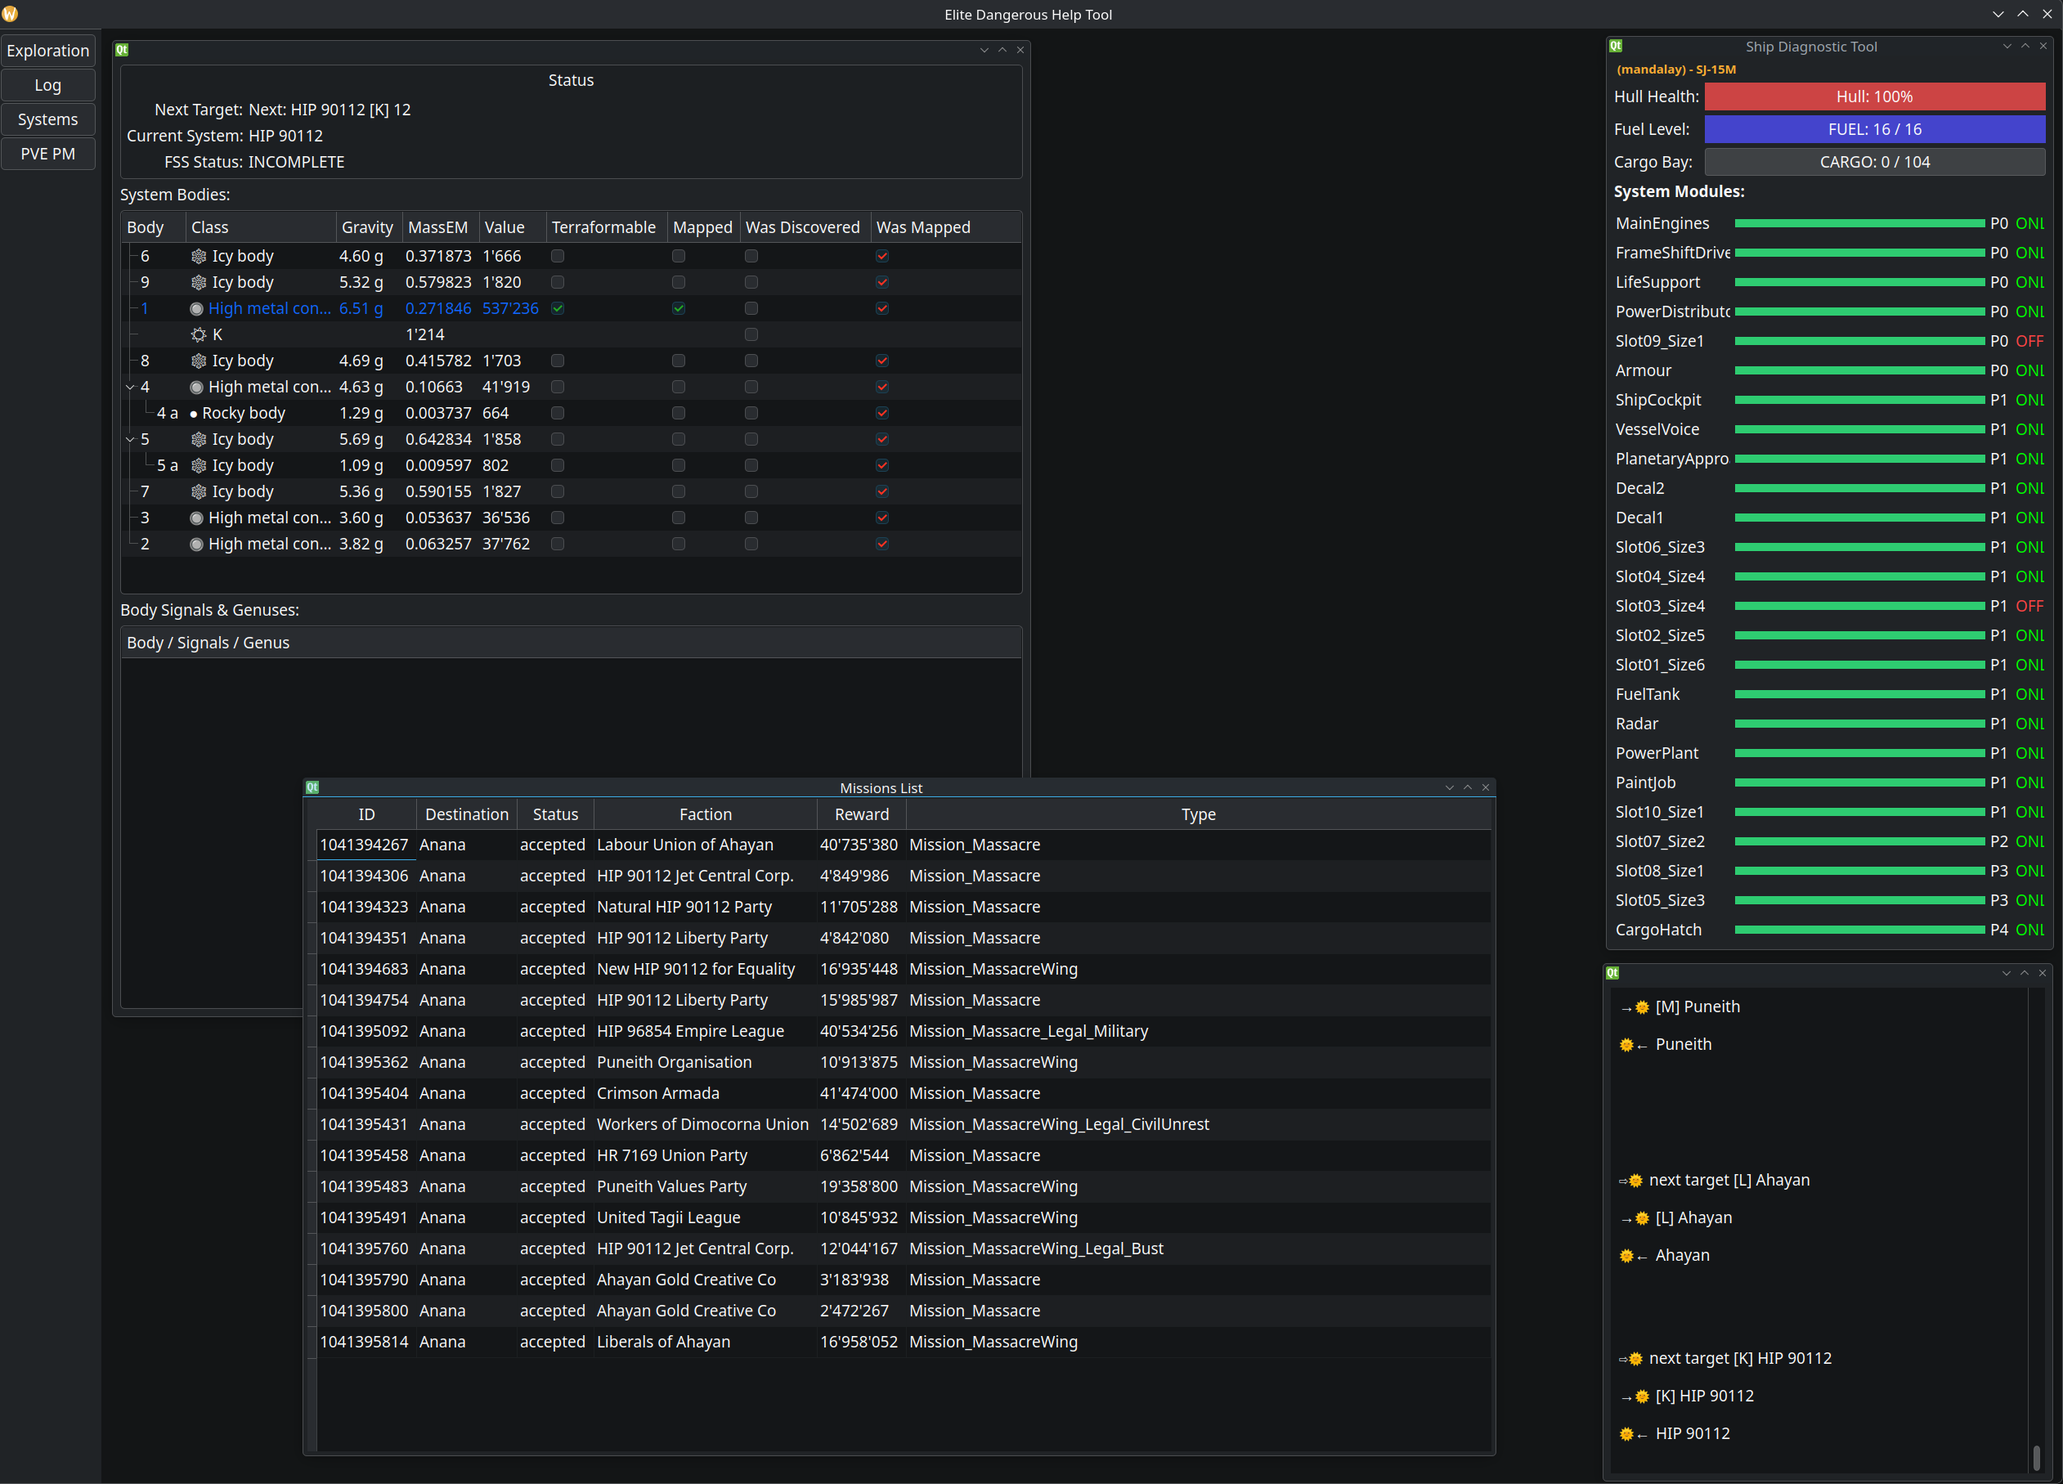
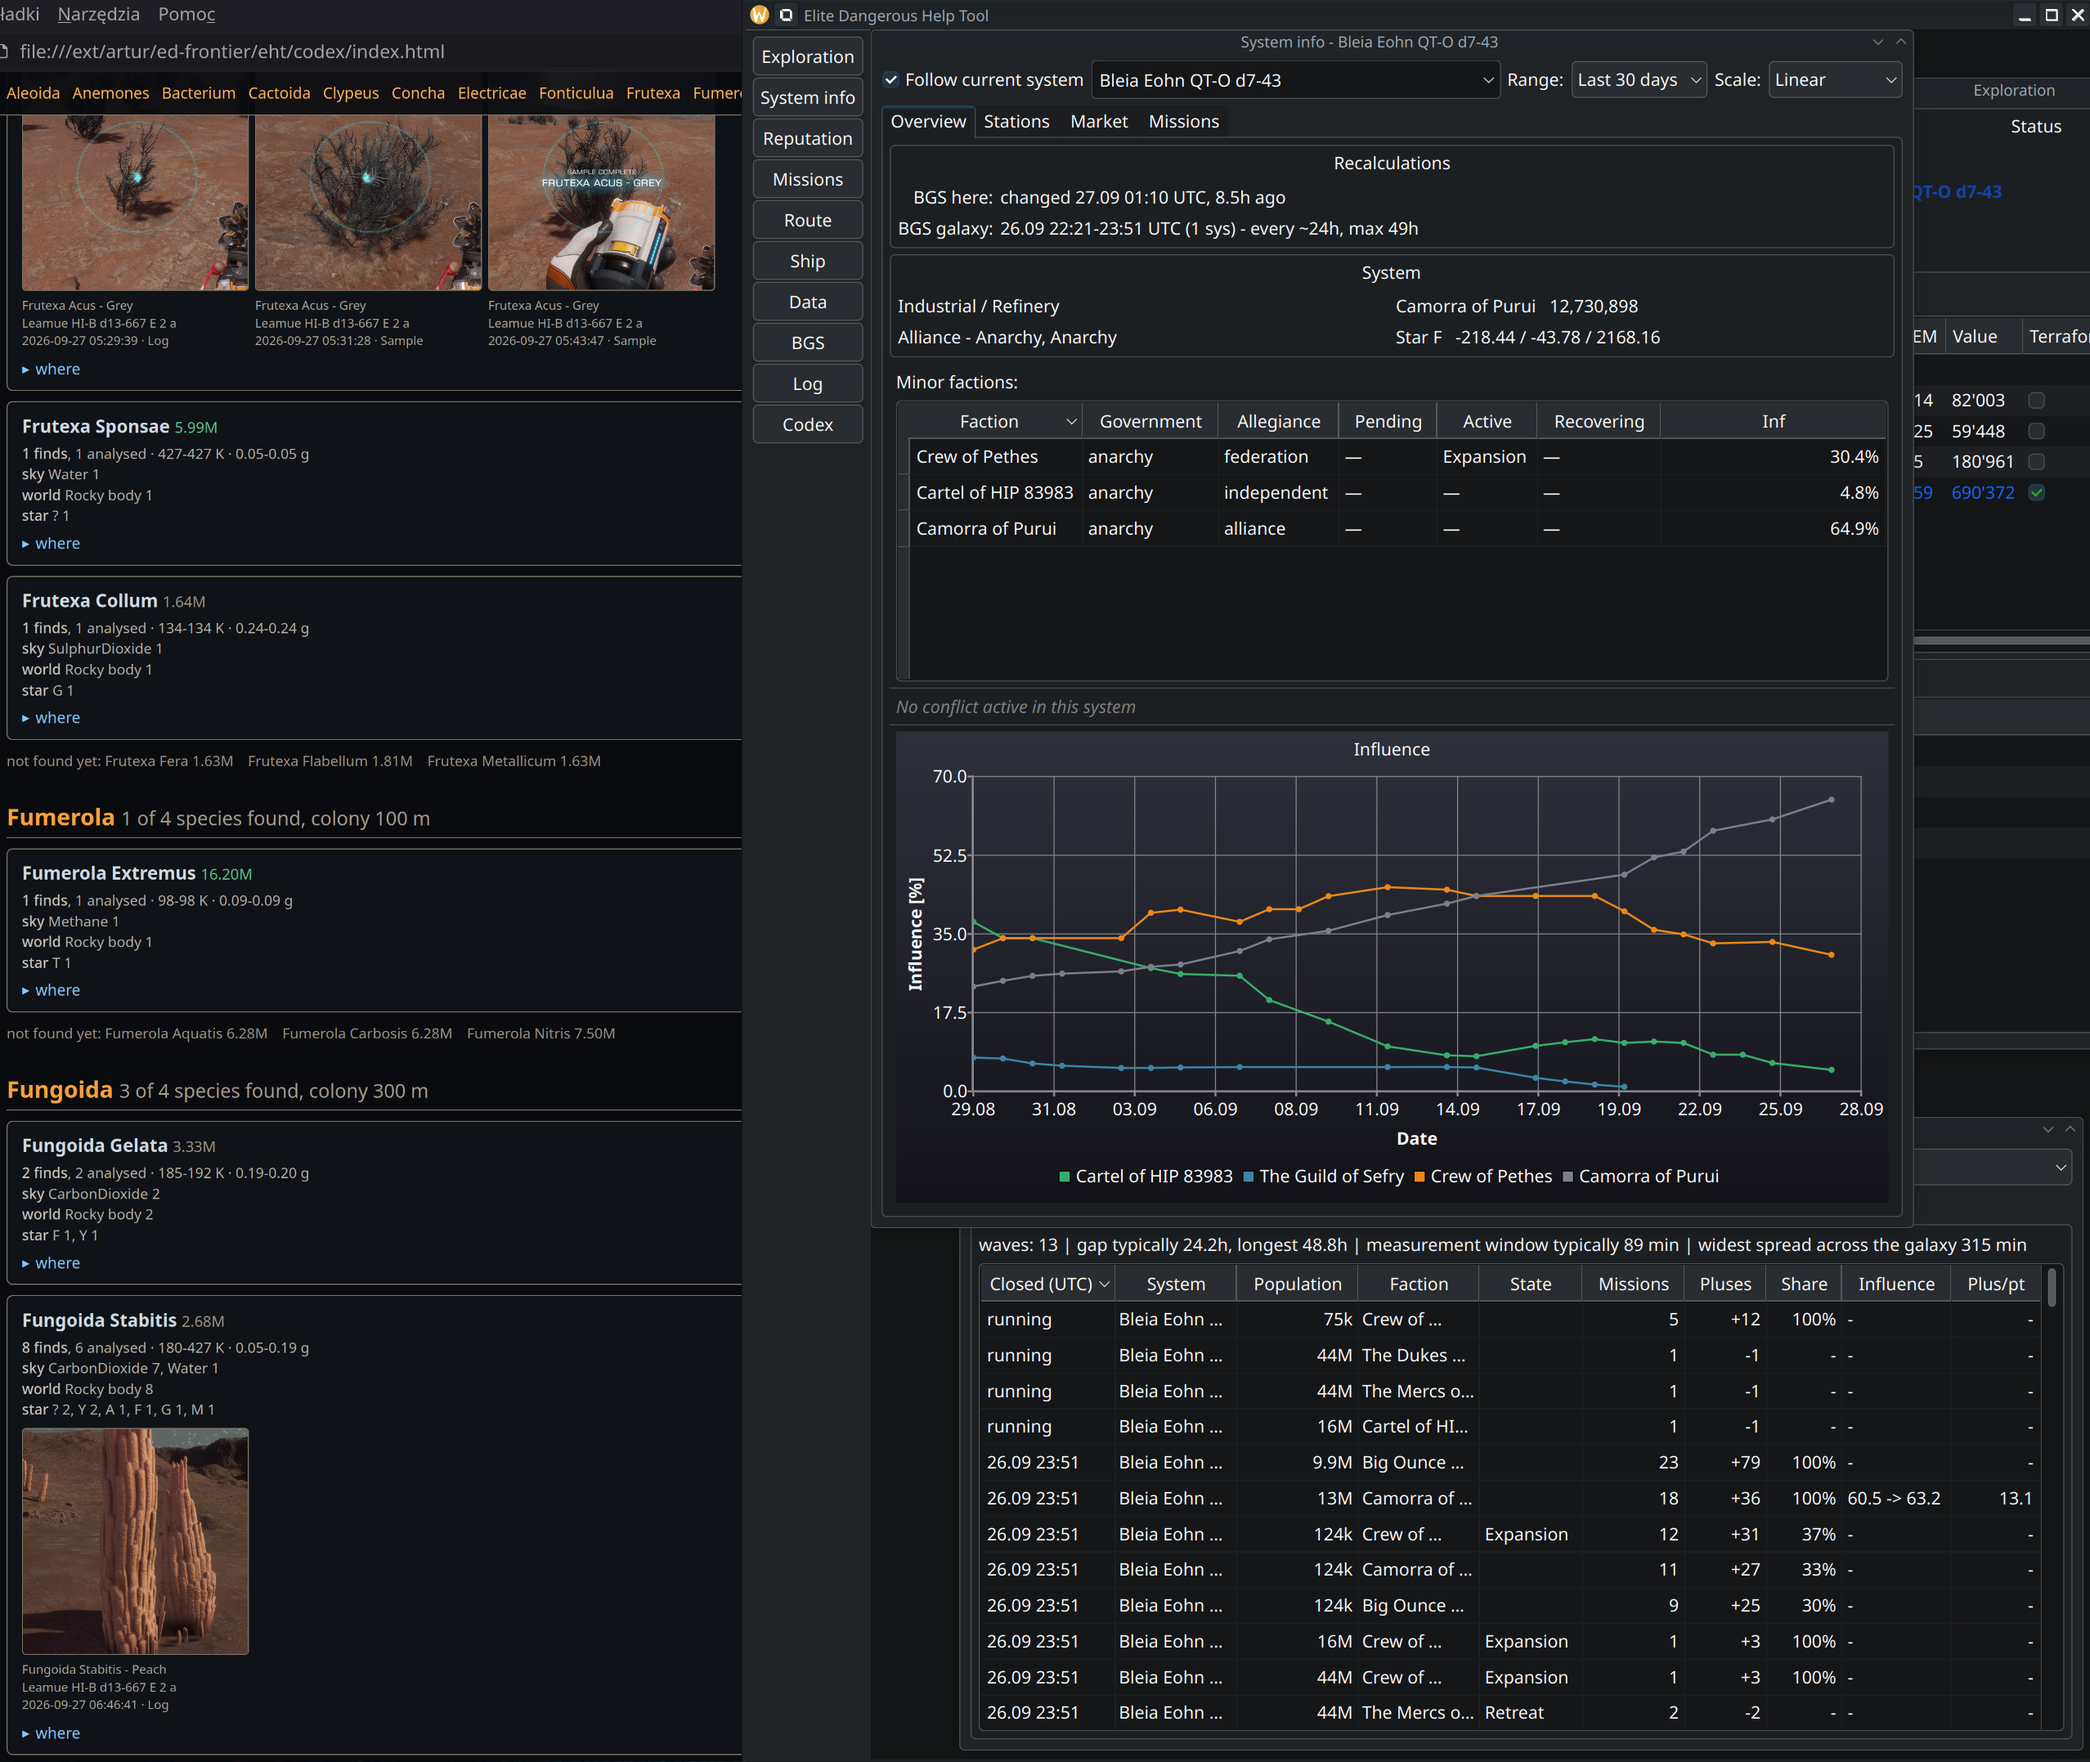
update

diff --git a/README.md b/README.md
@@ -1,66 +1,69 @@
 # elite_help_tool
 Elite Dangerous exploration planet visiting optimisation tool
 
-This is realtime tool helping explore system and map valuable planets, optimise visiting route I wrote in few horus using C++23 for my own pleasure of explroation in Elite Dangerous.
+This is a realtime tool that helps explore a system, map valuable planets and optimise the visiting route. I wrote it in a few hours in C++23, for my own pleasure of exploration in Elite Dangerous.
 
 ![at_work](at_work.png)
 
-## Eksploracja
+## Exploration
 
-Prawy dolny róg overlaya idzie w kolejności pracy w nowym systemie:
+The bottom right corner of the overlay follows the order of work in a new system:
 
-1. **przylot** — gwiazda przylotu odkryta wcześniej („discovered before - jump on”) albo
-   `UNDISCOVERED`; ile ciał z honka już zeskanowano,
-2. **do zmapowania** — ciała warte sond, najdroższe pierwsze, zielone gdy pierwsze odkrycie,
-3. **życie** — ciała z sygnałami biologicznymi i przy każdym rodzaju gatunek, jakim
-   najprawdopodobniej jest na tym świecie, z ceną; zielone gdy wart lądowania (`bio_worth`, 5M).
+1. **arrival** — whether the arrival star was discovered before ("discovered before - jump on") or is
+   `UNDISCOVERED`, and how many bodies from the honk have been scanned already,
+2. **to map** — bodies worth the probes, most valuable first, green when it is a first discovery,
+3. **life** — bodies with biological signals and, for each genus, the species it most likely is on
+   this world, with its price; green when it is worth landing for (`bio_worth`, 5M).
 
-Gatunek zgadywany jest z własnej historii: każdy pobrany gatunek zapisuje się razem ze światem
-(klasa planety, atmosfera, temperatura, grawitacja, gwiazda nad nim), a rodzaj na nowym świecie
-porównywany jest z tym, co już znaleziono pod tą samą atmosferą. Na 374 gatunkach z archiwum,
-zgadując każdy z pozostałych, pierwsza odpowiedź trafia w 302 przypadkach, pierwsze dwie w 349.
-Im więcej próbek, tym węższe przypuszczenie.
+The species is guessed from your own history. Every species sampled is stored together with its
+world (planet class, atmosphere, temperature, gravity, the star above it), and a genus on a new world
+is compared with what has already been found under the same atmosphere. On 374 species from the
+archive, guessing each one from the rest, the first answer is right in 302 cases and one of the first
+two in 349. The more samples, the narrower the guess.
 
-Na powierzchni, w miejscu czytnika celu po lewej od środka, stoi próbka w toku: gatunek, cena,
-1/3–3/3 i odległość od najbliższej wcześniejszej próbki wobec zasięgu kolonii, liczona na żywo z
-`Status.json` — zielone „sample”, gdy już wolno. Niżej, co jeszcze rośnie na tym ciele.
+On the surface, in the place of the target panel left of centre, the sample in progress is shown:
+species, price, 1/3–3/3 and the distance from the nearest earlier sample against the colony range,
+counted live from `Status.json` — a green "sample" when you may take the next one. Below it, what else
+grows on this body.
 
 ## Codex
 
-Przy każdej próbce warstwa robi zdjęcie środka ekranu (patrz `overlay/README.md`), a narzędzie
-odkłada je do `codex/pictures/` obok siebie, opisane w `codex/pictures.json`. `codex/index.html`
-pisany jest z bazy przy starcie i po każdej próbce: rodzina po rodzinie, gatunek po gatunku —
-cena, liczba znalezisk, zakres temperatur i grawitacji, atmosfery, światy i gwiazdy, zdjęcia,
-tabela systemów i ciał oraz czego z rodziny jeszcze nie znaleziono. Otwiera go przycisk *Codex*.
-Zdjęcia żyją w katalogu, nie w bazie: bazę da się odtworzyć z journali, zdjęcia nie.
+With every sample the layer takes a picture of the centre of the screen (see `overlay/README.md`), and
+the tool puts it in `codex/pictures/` next to itself, described in `codex/pictures.json`.
+`codex/index.html` is written from the database at start and after every sample: family by family,
+species by species — price, number of finds, temperature and gravity range, atmospheres, worlds and
+stars, pictures, a table of systems and bodies, and what of the family has not been found yet. The
+*Codex* button opens it. The pictures live in the directory, not in the database: the database can be
+rebuilt from the journals, the pictures cannot.
 
-Ustawienia w sekcji `exploration` pliku `eht_settings.json`: `bio_worth`, `bio_bodies`,
+Settings are in the `exploration` section of `eht_settings.json`: `bio_worth`, `bio_bodies`,
 `candidates`, `capture`, `capture_size`, `codex_dir`, `jpeg_quality`.
 
-## Trzy bazy
+## BGS tick
 
-Dane rozkładają się na trzy pliki leżące obok siebie, bo różnią się pochodzeniem i właścicielem:
+How EHT works out from the journals when the daily influence and war ticks happened, even though
+systems are visited rarely: [doc/bgs_tick.md](doc/bgs_tick.md).
 
-| plik | zawiera | odtwarzalny z journali | wspólny dla kont |
+## Three databases
+
+The data is split into three files lying side by side, because they differ in origin and owner:
+
+| file | holds | rebuilt from journals | shared between accounts |
 |---|---|---|---|
-| `ehtdb.sqlite` | misje, zdobycze, reputacja, postęp skanowania | tak | **nie** — należy do jednej postaci |
-| `galaxy.sqlite` | systemy, ciała, stacje, frakcje, wpływy, konflikty | tak | tak |
-| `live.sqlite` | rynki, ceny, półka bartendera | **nie** | tak |
+| `ehtdb.sqlite` | missions, loot, reputation, scanning progress | yes | **no** — belongs to one commander |
+| `galaxy.sqlite` | systems, bodies, stations, factions, influence, conflicts | yes | yes |
+| `live.sqlite` | markets, prices, the bartender's shelf | **no** | yes |
 
-Rozdział `ehtdb` od `galaxy` ma jeden konkretny powód: świat jest ten sam dla każdego commandera,
-ale „co zeskanowałem i zmapowałem" już nie. Pokazanie jednej postaci, że zmapowała planetę, którą
-naprawdę zmapowała druga, prowadzi wprost do błędnej decyzji przy planowaniu lotu. Dlatego
-`system_progress`, `body_progress`, `genus_progress` i `faction_reputation` zostają w bazie
-osobistej i kluczują się **naturalnie** — adresem systemu, numerem ciała, nazwą frakcji — a nie
-`oid`-ami, które zmieniają się przy każdej przebudowie `galaxy.sqlite`.
+`ehtdb` is split from `galaxy` for one concrete reason: the world is the same for every commander,
+but "what I have scanned and mapped" is not. Showing one commander that they mapped a planet which was
+really mapped by the other leads straight to a wrong decision when planning a flight. That is why
+`system_progress`, `body_progress`, `genus_progress` and `faction_reputation` stay in the personal
+database and are keyed **naturally** — by system address, body id, faction name — and not by `oid`s,
+which change with every rebuild of `galaxy.sqlite`.
 
-Dzięki temu dwa konta mogą wskazywać symlinkiem ten sam `galaxy.sqlite` i `live.sqlite`, dzieląc
-wiedzę o galaktyce i cenach, a zachowując własne misje, reputację i postęp eksploracji.
+Thanks to this two accounts can point by symlink at the same `galaxy.sqlite` and `live.sqlite`,
+sharing knowledge of the galaxy and prices, while keeping their own missions, reputation and
+exploration progress.
 
-`journal_tailer` kasuje i odtwarza `ehtdb.sqlite` oraz `galaxy.sqlite`; `live.sqlite` zostawia
-nietknięty, bo jego zawartości nie da się odtworzyć z journali.
-
-## Tick BGS
-
-Jak EHT ustala z journali, kiedy przeszedł dzienny tick wpływów i wojen, mimo rzadkich wizyt w
-systemach: [doc/bgs_tick.md](doc/bgs_tick.md) (po angielsku).
+`journal_tailer` deletes and rebuilds `ehtdb.sqlite` and `galaxy.sqlite`; it leaves `live.sqlite`
+untouched, because its contents cannot be rebuilt from the journals.
